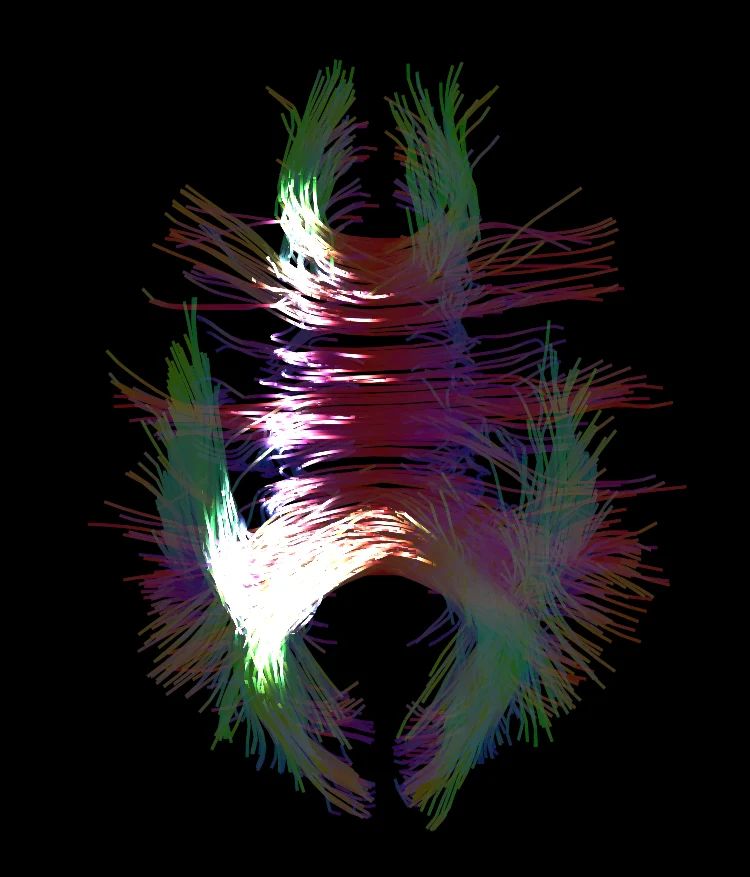
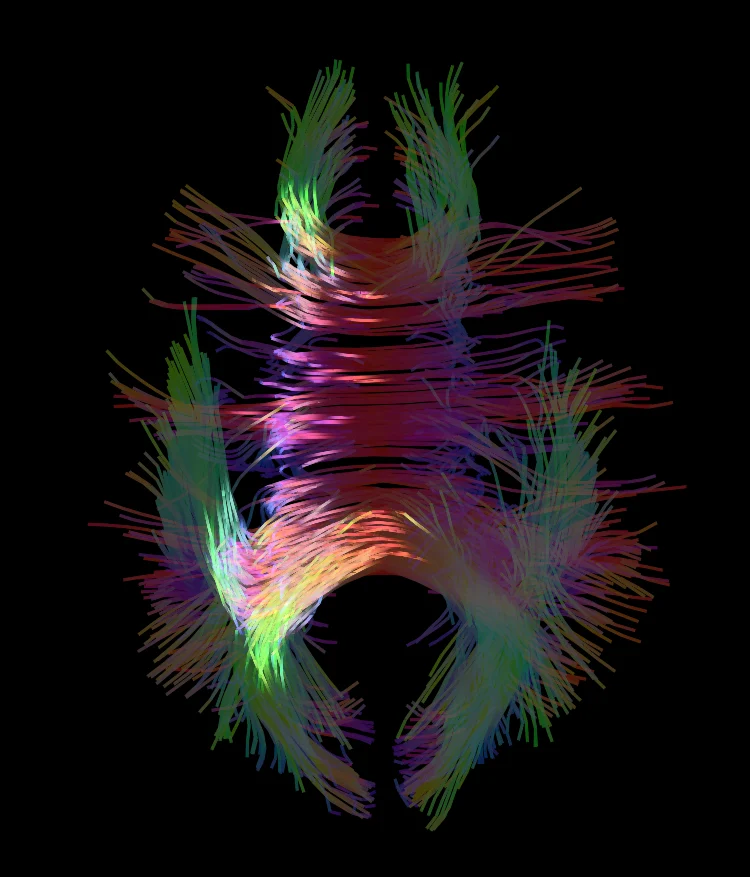
Writing and Collaborate after three critic rounds: gentler jets, balanced pairs, quieter behind the tracts, pulses without white-out

Changed region(s): [[0.2453, 0.1847, 0.5827, 0.8005]]

diff --git a/src/stage/bg/fluid.js b/src/stage/bg/fluid.js
@@ -1,14 +1,16 @@
 /* Collaborate's background: a real fluid across the screen, after Pavel Dobryakov's WebGL Fluid Simulation (MIT),
    written afresh (stable fluids: advection, vorticity, a pressure solve). On every heartbeat (clock.js), as light
-   crosses the corpus callosum in front, colour pours in from the left and from the right at the tract's height, the two
-   sides always a complementary pair. The pair moves round the colour wheel with each push and the warm colour swaps
-   sides, so several pairs are swirling together in the middle at once, the newest brightest; the volley pours hardest.
+   crosses the corpus callosum in front, colour pours in from both edges of the screen at the tract's height, the two
+   sides always a complementary pair (red from one, cyan from the other). The two jets come in one a little above the
+   tract and one a little below, angled in, so they slide past each other and curl together in the middle; which is
+   higher swaps each beat. The pair moves round the colour wheel with each push, so several pairs are swirling at once,
+   the newest brightest. The volley pours hardest.
    A fixed step, so it behaves the same at any frame rate; fewer pressure iterations and a smaller grid on a phone. */
 import { program } from '../gl.js';
 import { beat, amp } from '../clock.js';
 import { WORDS } from './layer.js';
 
-const STEP = 1 / 60, POUR = 0.22;
+const STEP = 1 / 60, POUR = 0.7;
 
 const hsv = (h, s, v) => { const f = n => { const k = (n + h * 6) % 6; return v - v * s * Math.max(0, Math.min(k, 4 - k, 1)); }; return [f(5), f(3), f(1)]; };
 // beat n's pair: hues 0, 30, 60, 90, 120, 150 degrees and their complements (red and cyan, orange and blue, yellow and
@@ -16,6 +18,14 @@ const hsv = (h, s, v) => { const f = n => { const k = (n + h * 6) % 6; return v 
 export function pairOf(n) {
   const h = (((n % 6) + 6) % 6) / 12, a = hsv(h, 0.85, 1), b = hsv((h + 0.5) % 1, 0.85, 1);
   return n % 2 === 0 ? { left: a, right: b } : { left: b, right: a };
+}
+
+// a cool colour lifted to pour as strongly as a warm one (the dye runs past 1; the screen tone-maps it)
+const lift = c => { const l = 0.2126 * c[0] + 0.7152 * c[1] + 0.0722 * c[2]; const k = Math.min(2.6, Math.max(1, 0.6 / l)); return c.map(v => v * k); };
+// beat n's push: the pair's two colours, one from each side, one jet 11% of the height above the tract and one below
+export function pushOf(n) {
+  const pair = pairOf(n), up = n % 2 === 0 ? 1 : -1;
+  return { left: { color: lift(pair.left), y: 0.11 * up }, right: { color: lift(pair.right), y: -0.11 * up } };
 }
 
 // The time steps and the pushes, with no WebGL. advance() returns how many steps it ran; push(n, amp, t) is called as
@@ -77,11 +87,11 @@ const SPLAT = `${HEAD}
 uniform sampler2D uTarget; uniform vec2 uPoint; uniform vec3 uColor; uniform float uAspect, uRadius;
 void main(){ vec2 p = vUv - uPoint; p.x *= uAspect; o = vec4(texture(uTarget, vUv).rgb + uColor*exp(-dot(p, p)/uRadius), 1.); }`;
 const SHOW = `${HEAD}
-uniform sampler2D uDye; uniform vec2 uRes, uShift; uniform vec4 uArt;
+uniform sampler2D uDye; uniform vec2 uRes, uShift; uniform vec4 uArt; uniform float uFloor;
 ${WORDS}
 void main(){
   vec3 d = max(texture(uDye, (gl_FragCoord.xy - uShift)/uRes).rgb, 0.);
-  vec3 c = (1. - exp(-d*1.3))*.85*clearOfWords()*mix(.5, 1., box(uArt, 40., 160.));   // never past white; quieter behind the tract
+  vec3 c = (1. - exp(-d*1.6))*clearOfWords()*mix(uFloor, 1., box(uArt, 40., 160.));   // never past white; quieter behind the tract, so it stays clear
   o = vec4(c, max(c.r, max(c.g, c.b)));
 }`;
 
@@ -89,7 +99,7 @@ export function createFluid(canvas, { lite = false, preserve = false } = {}) {
   const gl = canvas.getContext('webgl2', { alpha: true, premultipliedAlpha: true, antialias: false, preserveDrawingBuffer: preserve });
   if (!gl || !gl.getExtension('EXT_color_buffer_float')) return null;   // the solver needs float targets
   const P = {}; for (const [k, fs] of Object.entries({ advect: ADVECT, diverge: DIVERGE, curl: CURL, vortex: VORTEX, pressure: PRESSURE, gradient: GRADIENT, fade: FADE, splat: SPLAT, show: SHOW })) { P[k] = program(gl, VS, fs); if (!P[k]) return null; }
-  const vao = gl.createVertexArray(), ITER = lite ? 10 : 20, SIM = lite ? 64 : 128, DYE = lite ? 256 : 512;
+  const vao = gl.createVertexArray(), ITER = lite ? 14 : 30, SIM = lite ? 64 : 128, DYE = lite ? 256 : 512;
   const target = (w, h) => {
     const t = gl.createTexture(); gl.bindTexture(gl.TEXTURE_2D, t); gl.texImage2D(gl.TEXTURE_2D, 0, gl.RGBA16F, w, h, 0, gl.RGBA, gl.HALF_FLOAT, null);
     for (const [k, v] of [[gl.TEXTURE_MIN_FILTER, gl.LINEAR], [gl.TEXTURE_MAG_FILTER, gl.LINEAR], [gl.TEXTURE_WRAP_S, gl.CLAMP_TO_EDGE], [gl.TEXTURE_WRAP_T, gl.CLAMP_TO_EDGE]]) gl.texParameteri(gl.TEXTURE_2D, k, v);
@@ -122,22 +132,23 @@ export function createFluid(canvas, { lite = false, preserve = false } = {}) {
     const { vel, pres, dye } = G;
     for (const p of pours) {
       const age = s - p.t0; if (age < 0 || age > POUR) continue;
-      const k = 1 - age / POUR, pair = pairOf(p.n), y = cy + (hash(p.n) - 0.5) * 0.16, wob = (hash(p.n + 0.5) - 0.5) * 0.6, F = 1500 * p.a * k;
-      for (const [x, dir, col] of [[0.015, 1, pair.left], [0.985, -1, pair.right]]) {
-        splat(vel, x, y, [dir * F, F * wob * dir, 0], 0.003);
-        splat(dye, x, y, col.map(c => c * (0.3 + 0.5 * p.a) * k), 0.004);
+      const k = 1 - age / POUR, push = pushOf(p.n), y0 = cy + (hash(p.n) - 0.5) * 0.08, F = 450 * p.a * k, c10 = Math.cos(0.175), s10 = Math.sin(0.175);
+      for (const [side, x, dir] of [[push.left, 0.01, 1], [push.right, 0.99, -1]]) {
+        const y = y0 + side.y, toward = -Math.sign(side.y);                    // angled 10 degrees in, towards the tract's height
+        splat(vel, x, y, [dir * F * c10, toward * F * s10, 0], 0.006);          // pushed wider than it is coloured: it streams in as a jet
+        splat(dye, x, y, side.color.map(c => c * (0.3 + 0.4 * p.a) * k), 0.003);
       }
     }
     pours = pours.filter(p => s - p.t0 <= POUR);
     pass(P.curl, G.curl, [[P.curl.u.uVel, vel.read]]);
-    pass(P.vortex, vel.write, [[P.vortex.u.uVel, vel.read], [P.vortex.u.uCurlTex, G.curl]], u => { gl.uniform1f(u.uCurl, 22); gl.uniform1f(u.uDt, STEP); }); vel.swap();
+    pass(P.vortex, vel.write, [[P.vortex.u.uVel, vel.read], [P.vortex.u.uCurlTex, G.curl]], u => { gl.uniform1f(u.uCurl, 11); gl.uniform1f(u.uDt, STEP); }); vel.swap();
     pass(P.diverge, G.div, [[P.diverge.u.uVel, vel.read]]);
     pass(P.fade, pres.write, [[P.fade.u.uTex, pres.read]], u => gl.uniform1f(u.uK, 0.8)); pres.swap();
     for (let i = 0; i < ITER; i++) { pass(P.pressure, pres.write, [[P.pressure.u.uPres, pres.read], [P.pressure.u.uDiv, G.div]]); pres.swap(); }
     pass(P.gradient, vel.write, [[P.gradient.u.uPres, pres.read], [P.gradient.u.uVel, vel.read]]); vel.swap();
     const adv = (src, diss) => pass(P.advect, src.write, [[P.advect.u.uVel, vel.read], [P.advect.u.uSrc, src.read]], u => { gl.uniform2f(u.uSimTexel, 1 / vel.read.w, 1 / vel.read.h); gl.uniform1f(u.uDt, STEP); gl.uniform1f(u.uDiss, diss); });
-    adv(vel, 0.25); vel.swap();
-    adv(dye, 1.4); dye.swap();                                   // old colour fades within a few beats: the newest pair is brightest
+    adv(vel, 0.2); vel.swap();
+    adv(dye, 0.9); dye.swap();                                    // old colour fades over a few beats: several pairs show, the newest brightest
   };
   const clear = () => { gl.bindFramebuffer(gl.FRAMEBUFFER, null); gl.viewport(0, 0, canvas.width, canvas.height); gl.clearColor(0, 0, 0, 0); gl.clear(gl.COLOR_BUFFER_BIT); };
   return {
@@ -155,8 +166,8 @@ export function createFluid(canvas, { lite = false, preserve = false } = {}) {
       gl.activeTexture(gl.TEXTURE0); gl.bindTexture(gl.TEXTURE_2D, G.dye.read.t); gl.uniform1i(P.show.u.uDye, 0);
       gl.uniform2f(P.show.u.uTexel, 1 / canvas.width, 1 / canvas.height); gl.uniform2f(P.show.u.uRes, canvas.width, canvas.height);
       gl.uniform2f(P.show.u.uShift, preserve ? c[0] - warmC[0] : 0, preserve ? c[1] - warmC[1] : 0);   // a fixed moment moves with the page as it scrolls
-      const a = v.anchor; gl.uniform4f(P.show.u.uArt, c[0] - a[0] * 0.25, c[1] - a[1] * 0.4, c[0] + a[0] * 0.25, c[1] + a[1] * 0.4);
-      gl.uniform4fv(P.show.u.uText, v.text); gl.uniform4fv(P.show.u.uNav, v.nav);
+      const a = v.anchor, fx = lite ? 0.42 : 0.25; gl.uniform4f(P.show.u.uArt, c[0] - a[0] * fx, c[1] - a[1] * 0.4, c[0] + a[0] * fx, c[1] + a[1] * 0.4);   // on a phone the tract spans the screen
+      gl.uniform1f(P.show.u.uFloor, lite ? 0.2 : 0.3); gl.uniform4fv(P.show.u.uText, v.text); gl.uniform4fv(P.show.u.uNav, v.nav);
       gl.drawArrays(gl.TRIANGLES, 0, 3); gl.bindVertexArray(null);
     },
   };

diff --git a/src/stage/fibres.js b/src/stage/fibres.js
@@ -15,9 +15,10 @@ export function writingPulses(t) {
   return { fwd: p * 1.2 - 0.1, back: 1.1 - ((p + 0.5) % 1) * 1.2 };
 }
 
-// the light crossing the corpus callosum on this beat: where it is (0 left end, 1 right), which way, how strong
+// the light crossing the corpus callosum on this beat: where it is (0 left end, 1 right), which way, how strong. Beats
+// alternate, and each full volley goes the other way from the last (the order is flipped at every fourth beat)
 export function crossing(t) {
-  const { n, a } = beat(t), dir = n % 2 === 0 ? 1 : -1, p = Math.min(1.2, a / (0.75 * T)) - 0.1;
+  const { n, a } = beat(t), dir = (n + Math.floor(n / 4)) % 2 === 0 ? 1 : -1, p = Math.min(1.2, a / (0.75 * T)) - 0.1;
   return { s: dir > 0 ? p : 1 - p, dir, amp: amp(n) };
 }
 
@@ -53,12 +54,12 @@ uniform vec3 uMni;             // which way MNI x, y, z lie in view space, for t
 out vec4 o;
 void main(){
   float edge = 1. - smoothstep(.5, 1., abs(vSide));
-  float jit = (fract(sin(vSeed*12.9898)*43758.5453) - .5)*.06;          // each streamline's pulse a touch early or late
+  float jit = (fract(sin(vSeed*12.9898)*43758.5453) - .5)*.03;          // each streamline's pulse a touch early or late
   float h = exp(-pow((vS - uPulse.x - jit)/.035, 2.)) + exp(-pow((vS - uPulse.y + jit)/.035, 2.));
   vec3 col = .08 + .92*pow(vDir, vec3(.9));                               // tractography colours (in view axes, mapped below)
   col = vec3(col[int(uMni.x)], col[int(uMni.y)], col[int(uMni.z)]);
-  float I = .42 + 2.2*h*uPulse.z;
-  vec3 c = mix(col, vec3(1., .97, .92), clamp(h*uPulse.z*.6, 0., .7))*I*edge*.8;
+  float I = .42 + .9*h*uPulse.z;                                          // the light lifts the fibres' own colour, never past it to white
+  vec3 c = mix(col, vec3(1., .97, .92), clamp(h*uPulse.z*.4, 0., .3))*I*edge*.8;
   o = vec4(c, max(c.r, max(c.g, c.b)));
 }`;
 // the brain's outline: a faint shell, lit only at its rim
@@ -77,7 +78,7 @@ void main(){
 const SHELL_FS = `#version 300 es
 precision highp float;
 in vec3 vN; out vec4 o;
-void main(){ vec3 n = normalize(vN); float rim = pow(1. - abs(n.z), 3.); vec3 c = vec3(.55, .6, .78)*rim*.32; o = vec4(c, max(c.r, max(c.g, c.b))); }`;
+void main(){ vec3 n = normalize(vN); float rim = pow(1. - abs(n.z), 3.); vec3 c = vec3(.55, .6, .78)*rim*.16; o = vec4(c, max(c.r, max(c.g, c.b))); }`;
 
 export function decodeFibres(json, buf, view) {
   const N = json.streamlines, P = json.points, V = VIEW[view], lo = json.lo, hi = json.hi;

diff --git a/src/stage/bg/ribbons.js b/src/stage/bg/ribbons.js
@@ -52,10 +52,11 @@ uniform float uT, uGain; uniform vec4 uArt;
 ${WORDS}
 out vec4 o;
 void main(){
-  float band = pow(.5 + .5*sin(6.2832*(vS*5. - uT*.05)), 6.);       // light running along every line in step
+  float band = pow(.5 + .5*sin(6.2832*(vS*5. - uT*.05)), 6.)*.7;       // light running along every line in step
   float I = (.3 + 1.2*band)*smoothstep(.22, .42, vS)*smoothstep(1., .9, vS)*mix(1., .55, clamp(vZ/25., 0., 1.));   // from where they have spread to the end; the far side fainter
   vec3 col = mix(vec3(.85), abs(vDir), .55);                         // the tract colours, softened
-  vec3 c = col*I*uGain*clearOfWords()*mix(.4, 1., box(uArt, 40., 160.));   // quieter behind the brain
+  float r = length((gl_FragCoord.xy - uArt.xy)/uArt.zw);
+  vec3 c = col*I*uGain*clearOfWords()*mix(mix(.1, .05, smoothstep(0., .6, (gl_FragCoord.y - uArt.y)/uArt.w)), 1., smoothstep(.75, 1.35, r));   // nearly gone behind the brain, fading out round it
   o = vec4(c, max(c.r, max(c.g, c.b)));
 }`;
 
@@ -86,11 +87,11 @@ export function createRibbons(canvas, { lite = false, preserve = false } = {}) {
     draw(t, view) {
       clear(); gl.useProgram(pr.p); gl.bindVertexArray(vao);
       const W = canvas.width, H = canvas.height, c = view.centre, a = view.anchor;
-      gl.uniform2f(pr.u.uRes, W, H); gl.uniform2f(pr.u.uC, c[0], c[1]);
+      gl.uniform2f(pr.u.uRes, W, H); gl.uniform2f(pr.u.uC, c[0] + 0.2 * W, c[1]);   // its bright middle beside the brain, not through it
       gl.uniform1f(pr.u.uScale, Math.max(W, H) / 44);                                     // both wings and their crossing, filling the screen as in the demo
       gl.uniform1f(pr.u.uYaw, 0.5 + (view.fixedYaw != null ? view.fixedYaw : 0.35 * Math.sin(2 * Math.PI * t / 60)));
-      gl.uniform1f(pr.u.uT, t); gl.uniform1f(pr.u.uGain, lite ? 0.2 : 0.13);
-      gl.uniform4f(pr.u.uArt, c[0] - a[0] * 0.3, c[1] - a[1] * 0.4, c[0] + a[0] * 0.3, c[1] + a[1] * 0.4);
+      gl.uniform1f(pr.u.uT, t); gl.uniform1f(pr.u.uGain, lite ? 0.14 : 0.09);
+      gl.uniform4f(pr.u.uArt, c[0], c[1], a[0] * 0.36, a[1] * 0.42);   // the brain's centre and half-size
       gl.uniform4fv(pr.u.uText, view.text); gl.uniform4fv(pr.u.uNav, view.nav);
       gl.enable(gl.BLEND); gl.blendFunc(gl.ONE, gl.ONE); gl.drawElements(gl.LINES, idx.length, gl.UNSIGNED_INT, 0); gl.disable(gl.BLEND); gl.bindVertexArray(null);
     },

diff --git a/tests/unit/fluid.test.js b/tests/unit/fluid.test.js
@@ -1,5 +1,5 @@
 import { describe, it, expect } from 'vitest';
-import { pairOf, fluidClock } from '../../src/stage/bg/fluid.js';
+import { pairOf, pushOf, fluidClock } from '../../src/stage/bg/fluid.js';
 import { T, amp } from '../../src/stage/clock.js';
 
 const hue = ([r, g, b]) => {
@@ -20,6 +20,23 @@ describe('the colours poured from each side', () => {
   });
   it('are bright, never grey', () => {
     for (let n = 0; n < 12; n++) for (const c of [pairOf(n).left, pairOf(n).right]) { expect(Math.max(...c)).toBeGreaterThan(0.8); expect(Math.max(...c) - Math.min(...c)).toBeGreaterThan(0.5); }
+  });
+});
+
+describe('each push', () => {
+  const lum = ([r, g, b]) => 0.2126 * r + 0.7152 * g + 0.0722 * b;
+  it('pours a complementary pair, one colour from each side', () => {
+    for (let n = 0; n < 12; n++) { const p = pushOf(n); expect(gap(hue(p.left.color), hue(p.right.color))).toBeCloseTo(0.5, 2); }
+  });
+  it('the two jets pass each other, one high and one low, and swap each beat', () => {
+    for (let n = 0; n < 12; n++) {
+      const p = pushOf(n), q = pushOf(n + 1);
+      expect(Math.abs(p.left.y - p.right.y)).toBeGreaterThan(0.15);
+      expect(Math.sign(q.left.y - q.right.y)).toBe(-Math.sign(p.left.y - p.right.y));
+    }
+  });
+  it('a cool colour pours as strongly as its warm partner', () => {
+    for (let n = 0; n < 12; n++) { const p = pushOf(n), a = lum(p.left.color), b = lum(p.right.color); expect(Math.min(a, b) / Math.max(a, b)).toBeGreaterThan(0.45); }
   });
 });
 

diff --git a/tests/unit/fibres.test.js b/tests/unit/fibres.test.js
@@ -14,10 +14,15 @@ describe('the light along the arcuate fasciculus', () => {
 
 describe('the light across the corpus callosum', () => {
   it('crosses on each beat, alternating sides, full on the volley', () => {
-    const even = crossing(4 * T + 0.3), odd = crossing(5 * T + 0.3);
-    expect(even.dir).toBe(1); expect(odd.dir).toBe(-1);
-    expect(even.amp).toBe(1); expect(odd.amp).toBeLessThan(0.5);
-    expect(crossing(4 * T + 0.5).s).toBeGreaterThan(crossing(4 * T + 0.2).s);   // left to right: s rises
-    expect(crossing(5 * T + 0.5).s).toBeLessThan(crossing(5 * T + 0.2).s);     // right to left: s falls
+    for (let n = 4; n < 7; n++) expect(crossing((n + 1) * T + 0.3).dir).toBe(-crossing(n * T + 0.3).dir);
+    expect(crossing(4 * T + 0.3).amp).toBe(1); expect(crossing(5 * T + 0.3).amp).toBeLessThan(0.5);
+    for (const n of [4, 5]) {                                                   // s rises left to right, falls right to left
+      const d = crossing(n * T + 0.3).dir, ds = crossing(n * T + 0.5).s - crossing(n * T + 0.2).s;
+      expect(Math.sign(ds)).toBe(d);
+    }
+  });
+  it('the full volley crosses one way, then the other way on the next volley', () => {
+    expect(crossing(4 * T + 0.3).dir).toBe(-crossing(0 * T + 0.3).dir);
+    expect(crossing(8 * T + 0.3).dir).toBe(-crossing(4 * T + 0.3).dir);
   });
 });
